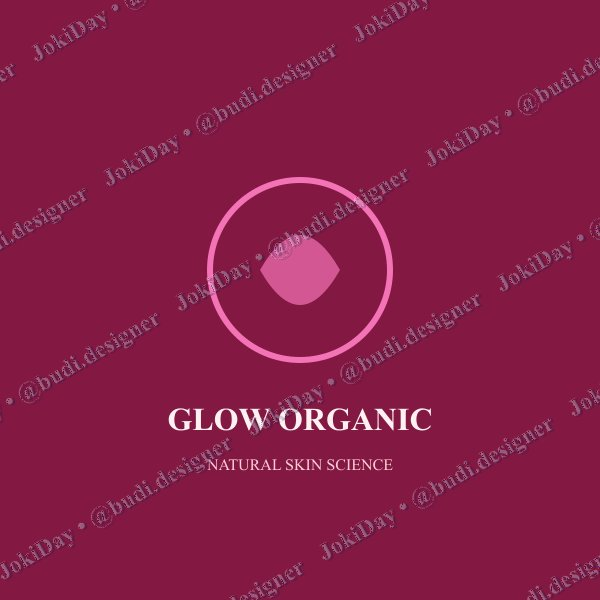
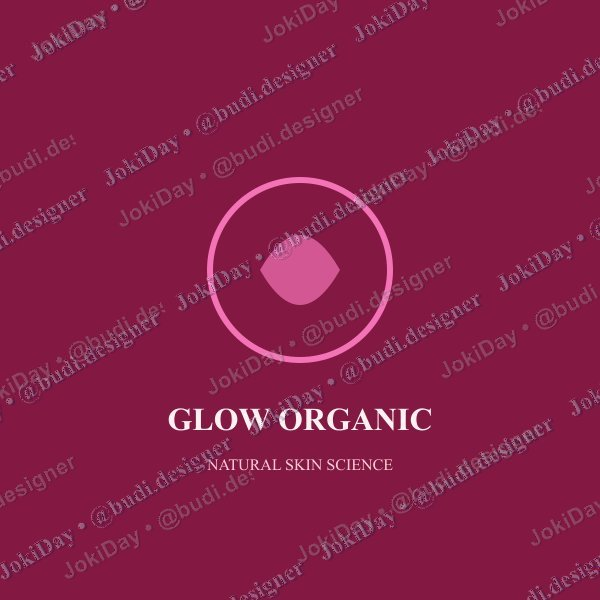
watermark:

diff --git a/src/server/media/watermark.service.ts b/src/server/media/watermark.service.ts
@@ -41,12 +41,12 @@ export interface WatermarkOptions {
 
 export class WatermarkService {
   /**
-   * Menambahkan watermark diagonal berulang ke dalam gambar sesuai DESIGN.md:
-   * - Teks format: JokiDay • @username (aman glyph ASCII, tanpa tofu)
-   * - Sudut diagonal -30 derajat
-   * - Dua lapis kontras ganda (putih dan navy #0B1F4A) agar terbaca jelas di latar terang maupun gelap
-   * - Pola bersilang (staggered / brick lattice) rapat tanpa celah kosong, melindungi seluruh kanvas dari screenshot/crop
-   * - Font Noto Sans TTF tersemat via base64 font-face agar konsisten di semua platform
+   * Menambahkan watermark diagonal simpel dan elegan ke dalam gambar sesuai DESIGN.md:
+   * - Teks format: JokiDay • @username (aman glyph ASCII)
+   * - Sudut diagonal -28 derajat
+   * - Pola bersilang lega & minimalis (tidak terlalu banyak/padat, tidak menutupi keindahan karya)
+   * - Opasitas lembut & halus (~20% putih, ~16% bayangan gelap) agar tidak terlalu mencolok/visible
+   *   namun tetap efektif mencegah screenshot tanpa izin
    * - Sisi terpanjang di-resize maksimum maxPx (default 1200px)
    */
   static async applyWatermark(
@@ -73,24 +73,23 @@ export class WatermarkService {
     }
 
     const shortSide = Math.min(width, height);
-    // Skala ukuran font proporsional (±4.2% dari sisi terpendek sesuai DESIGN.md)
-    const fontSize = Math.max(15, Math.round(shortSide * 0.042));
+    // Skala ukuran font proporsional dan tidak berlebihan (~3.6% dari sisi pendek)
+    const fontSize = Math.max(14, Math.round(shortSide * 0.036));
 
     // Bersihkan username dari karakter @ di depan jika ada, lalu sanitasi XML
     const rawUsername = options.username.trim().replace(/^@+/, "");
     const safeUsername = escapeXml(rawUsername || "designer");
     const textLabel = `JokiDay • @${safeUsername}`;
 
-    // Kalkulasi dimensi teks dan tile pattern bersilang rapat (brick layout)
-    const charWidth = fontSize * 0.64;
+    // Kalkulasi dimensi teks dan spasi renggang yang bersih (clean & simple)
+    const charWidth = fontSize * 0.62;
     const textWidth = Math.ceil(textLabel.length * charWidth);
-    const horizontalGap = Math.max(36, Math.round(fontSize * 1.8));
+    const horizontalGap = Math.max(90, Math.round(fontSize * 4.5));
     const tileWidth = textWidth + horizontalGap;
-    const rowHeight = Math.max(38, Math.round(fontSize * 2.3));
+    const rowHeight = Math.max(95, Math.round(fontSize * 4.0));
     const tileHeight = rowHeight * 2;
 
     const fontBase64 = getEmbeddedFontBase64();
-    const strokeWidth = Math.max(1.5, Number((fontSize * 0.08).toFixed(1)));
 
     const svgOverlay = Buffer.from(`
       <svg width="${width}" height="${height}" xmlns="http://www.w3.org/2000/svg">
@@ -101,43 +100,39 @@ export class WatermarkService {
                   @font-face {
                     font-family: 'JokiDayWatermarkFont';
                     src: url('data:font/ttf;base64,${fontBase64}');
-                    font-weight: 700;
+                    font-weight: 600;
                     font-style: normal;
                   }
                   .wm-txt {
                     font-family: 'JokiDayWatermarkFont', Arial, 'Segoe UI', Helvetica, sans-serif;
                     font-size: ${fontSize}px;
-                    font-weight: 700;
-                    letter-spacing: 0.2px;
+                    font-weight: 600;
+                    letter-spacing: 0.3px;
                   }
                 </style>`
               : `<style>
                   .wm-txt {
                     font-family: Arial, 'Segoe UI', Helvetica, sans-serif;
                     font-size: ${fontSize}px;
-                    font-weight: 700;
-                    letter-spacing: 0.2px;
+                    font-weight: 600;
+                    letter-spacing: 0.3px;
                   }
                 </style>`
           }
-          <pattern id="wm" width="${tileWidth}" height="${tileHeight}" patternUnits="userSpaceOnUse" patternTransform="rotate(-30)">
-            <!-- Baris 1: x = 0 -->
-            <!-- Lapis 1: Navy (#0B1F4A) untuk kontras di latar terang -->
-            <text x="1.5" y="${rowHeight * 0.72 + 1.5}" class="wm-txt" fill="#0B1F4A" fill-opacity="0.38" stroke="#0B1F4A" stroke-width="${strokeWidth}" stroke-opacity="0.35">
+          <pattern id="wm" width="${tileWidth}" height="${tileHeight}" patternUnits="userSpaceOnUse" patternTransform="rotate(-28)">
+            <!-- Baris 1: Bayangan halus + teks putih lembut -->
+            <text x="1" y="${rowHeight * 0.72 + 1}" class="wm-txt" fill="#000000" fill-opacity="0.16">
               ${textLabel}
             </text>
-            <!-- Lapis 2: Putih (#FFFFFF) untuk kontras di latar gelap -->
-            <text x="0" y="${rowHeight * 0.72}" class="wm-txt" fill="#FFFFFF" fill-opacity="0.48" stroke="#FFFFFF" stroke-width="${strokeWidth * 0.5}" stroke-opacity="0.30">
+            <text x="0" y="${rowHeight * 0.72}" class="wm-txt" fill="#FFFFFF" fill-opacity="0.20">
               ${textLabel}
             </text>
 
-            <!-- Baris 2: x = tileWidth / 2 (Staggered offset 50%) -->
-            <!-- Lapis 1: Navy (#0B1F4A) -->
-            <text x="${tileWidth / 2 + 1.5}" y="${rowHeight * 1.72 + 1.5}" class="wm-txt" fill="#0B1F4A" fill-opacity="0.38" stroke="#0B1F4A" stroke-width="${strokeWidth}" stroke-opacity="0.35">
+            <!-- Baris 2 (staggered offset) -->
+            <text x="${tileWidth / 2 + 1}" y="${rowHeight * 1.72 + 1}" class="wm-txt" fill="#000000" fill-opacity="0.16">
               ${textLabel}
             </text>
-            <!-- Lapis 2: Putih (#FFFFFF) -->
-            <text x="${tileWidth / 2}" y="${rowHeight * 1.72}" class="wm-txt" fill="#FFFFFF" fill-opacity="0.48" stroke="#FFFFFF" stroke-width="${strokeWidth * 0.5}" stroke-opacity="0.30">
+            <text x="${tileWidth / 2}" y="${rowHeight * 1.72}" class="wm-txt" fill="#FFFFFF" fill-opacity="0.20">
               ${textLabel}
             </text>
           </pattern>

diff --git a/scripts/update-post-preview.ts b/scripts/update-post-preview.ts
@@ -1,12 +1,52 @@
 import { PrismaClient } from "@prisma/client";
 import fs from "node:fs";
 import path from "node:path";
+import https from "node:https";
 import { WatermarkService } from "../src/server/media/watermark.service";
 
 const prisma = new PrismaClient();
 
+async function fetchRemoteImageDoh(urlStr: string): Promise<Buffer | null> {
+  try {
+    const url = new URL(urlStr);
+    const dohRes = await fetch(
+      `https://dns.google/resolve?name=${encodeURIComponent(url.hostname)}&type=A`,
+      { signal: AbortSignal.timeout(5000) }
+    );
+    if (!dohRes.ok) return null;
+    const dohData = (await dohRes.json()) as any;
+    const realIp = dohData.Answer?.find((a: any) => a.type === 1)?.data;
+    if (!realIp) return null;
+
+    return await new Promise<Buffer | null>((resolve) => {
+      const req = https.request(
+        {
+          hostname: realIp,
+          port: 443,
+          path: `${url.pathname}${url.search}`,
+          method: "GET",
+          headers: { Host: url.hostname, "User-Agent": "Mozilla/5.0 JokiDay/1.0" },
+          servername: url.hostname,
+          rejectUnauthorized: false,
+          timeout: 8000,
+        },
+        (res) => {
+          if (res.statusCode !== 200) return resolve(null);
+          const chunks: Buffer[] = [];
+          res.on("data", (c) => chunks.push(c));
+          res.on("end", () => resolve(Buffer.concat(chunks)));
+        }
+      );
+      req.on("error", () => resolve(null));
+      req.end();
+    });
+  } catch {
+    return null;
+  }
+}
+
 async function main() {
-  console.log("Updating post previews with perfected dense watermark...");
+  console.log("Updating post previews with subtle, simple watermark...");
 
   const posts = await prisma.post.findMany({
     include: { previewAsset: true, designer: { include: { user: true } } },
@@ -26,11 +66,19 @@ async function main() {
 
     let rawBuffer: Buffer | null = null;
 
-    // Check if we already have scratch-final-dark.jpg or downloaded buffer
-    if (post.id === '7a13a0a0-4097-4eb0-b131-a77e6adcb729' && fs.existsSync('scratch-post2-downloaded.jpg')) {
-      rawBuffer = fs.readFileSync('scratch-post2-downloaded.jpg');
-    } else {
-      // Check existing file in previews
+    // Check if asset has remote URL
+    const remoteUrl = post.previewAsset?.driveFileId?.startsWith("http")
+      ? post.previewAsset.driveFileId
+      : post.id === "7a13a0a0-4097-4eb0-b131-a77e6adcb729"
+      ? "https://ik.imagekit.io/dkzba08rg/jokiday/portfolio/wm_bed067ff-f781-46c2-92b3-f8670ee2b1dc_fWaC8OMNJ.jpg"
+      : null;
+
+    if (remoteUrl) {
+      console.log(`Downloading original via DoH: ${remoteUrl}...`);
+      rawBuffer = await fetchRemoteImageDoh(remoteUrl);
+    }
+
+    if (!rawBuffer) {
       const possibleFilenames = [
         `wm_${post.previewAssetId}.jpg`,
         `${post.previewAssetId}.jpg`,
@@ -57,7 +105,7 @@ async function main() {
       const targetFileName = `wm_${post.previewAssetId}.jpg`;
       const targetFilePath = path.join(uploadsDir, targetFileName);
       fs.writeFileSync(targetFilePath, newWmBuffer);
-      console.log(`[OK] Saved new watermarked preview to ${targetFilePath}`);
+      console.log(`[OK] Saved new subtle watermarked preview to ${targetFilePath}`);
 
       await prisma.previewAsset.update({
         where: { id: post.previewAssetId },
@@ -69,6 +117,21 @@ async function main() {
         },
       });
       console.log(`[OK] Updated previewAsset record in DB.`);
+    }
+  }
+
+  // Also update demo previews
+  for (let i = 1; i <= 6; i++) {
+    const demoFn = `demo-preview-${i}.jpg`;
+    const demoPath = path.join(uploadsDir, demoFn);
+    if (fs.existsSync(demoPath)) {
+      const buf = fs.readFileSync(demoPath);
+      const { buffer: newWm } = await WatermarkService.applyWatermark(buf, {
+        username: "budi.designer",
+        maxPx: 1200,
+      });
+      fs.writeFileSync(demoPath, newWm);
+      console.log(`[OK] Updated demo preview ${demoFn}`);
     }
   }
 
